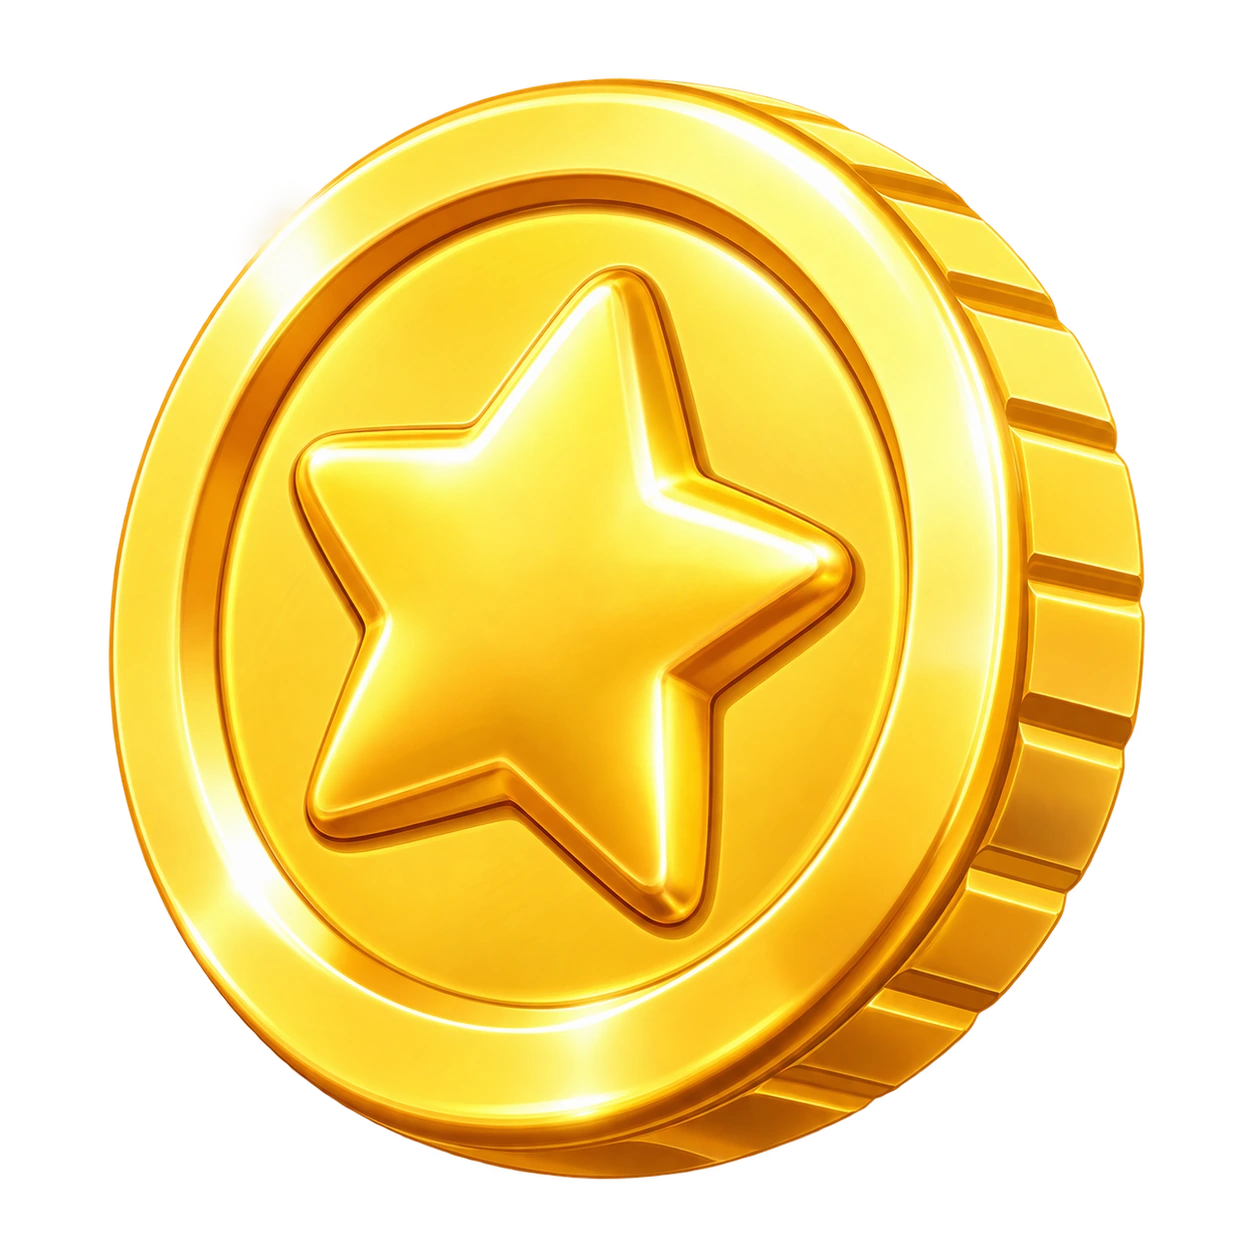
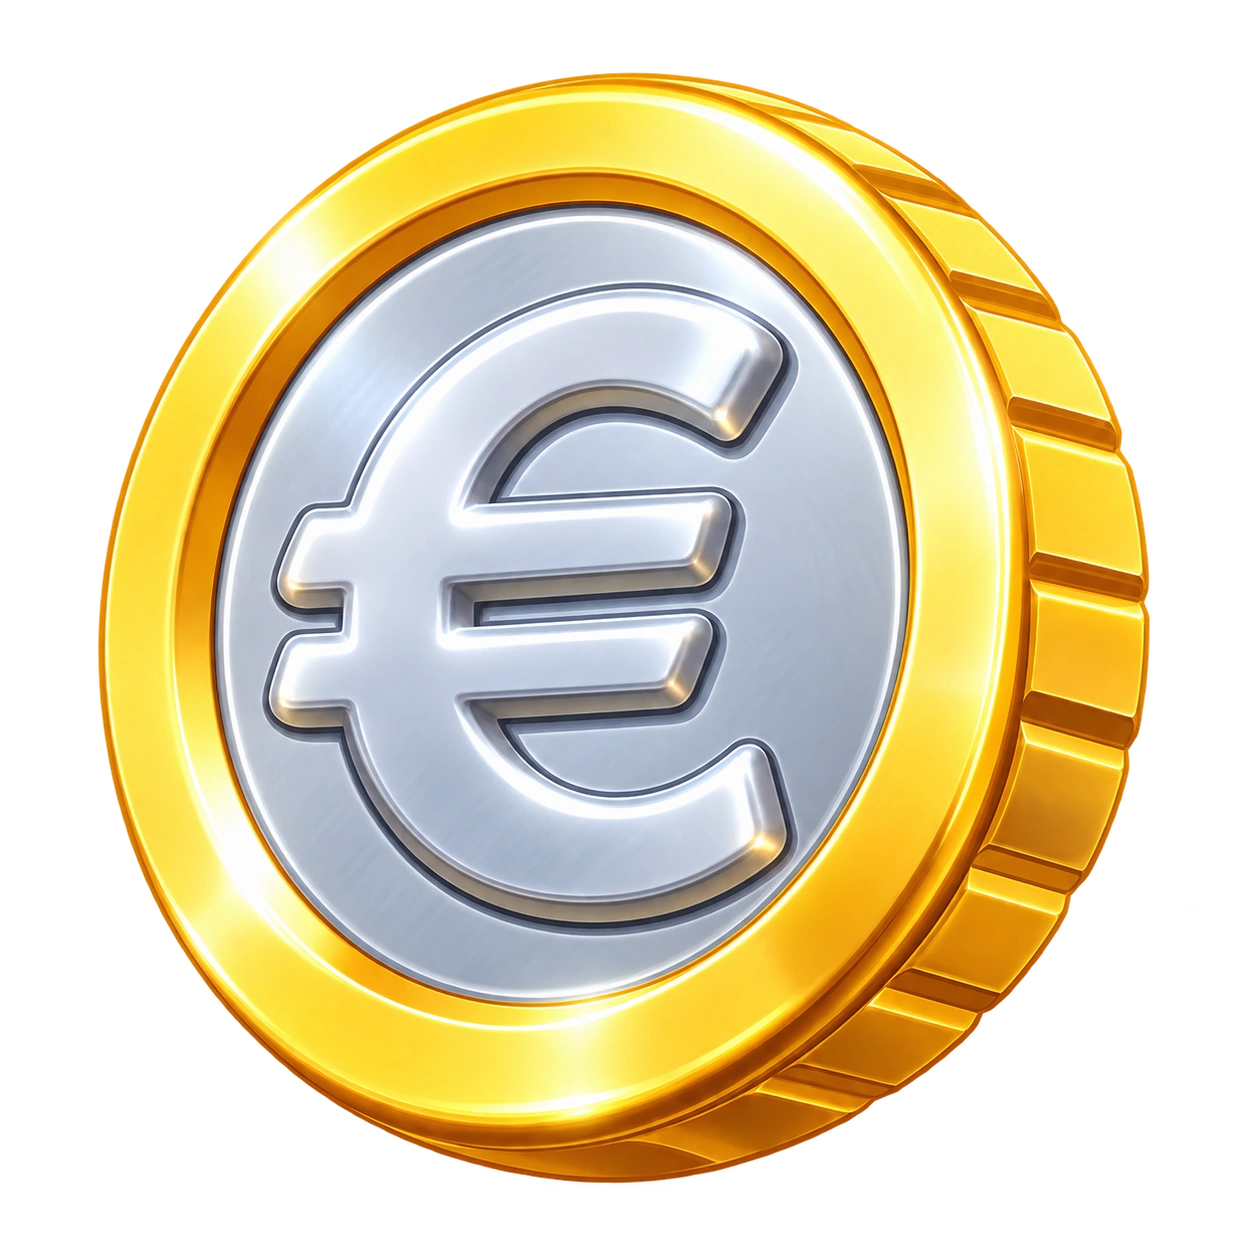
fgfh

diff --git a/lentokone/sw.js b/lentokone/sw.js
@@ -1,4 +1,4 @@
-const CACHE_NAME = 'lentokone-pwa-base-2.1-treasure-collectibles';
+const CACHE_NAME = 'lentokone-pwa-base-2.2-euro-coin';
 const APP_SHELL = [
   './',
   './index.html',
